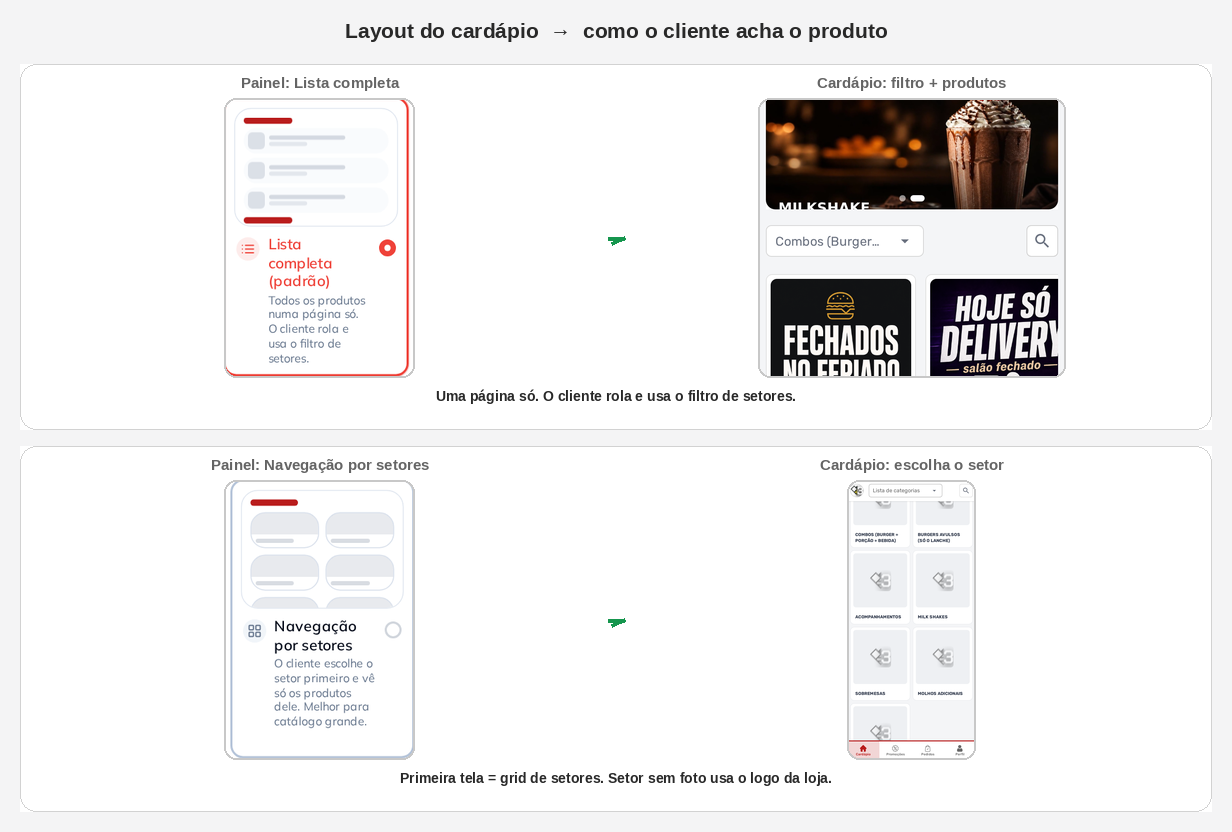
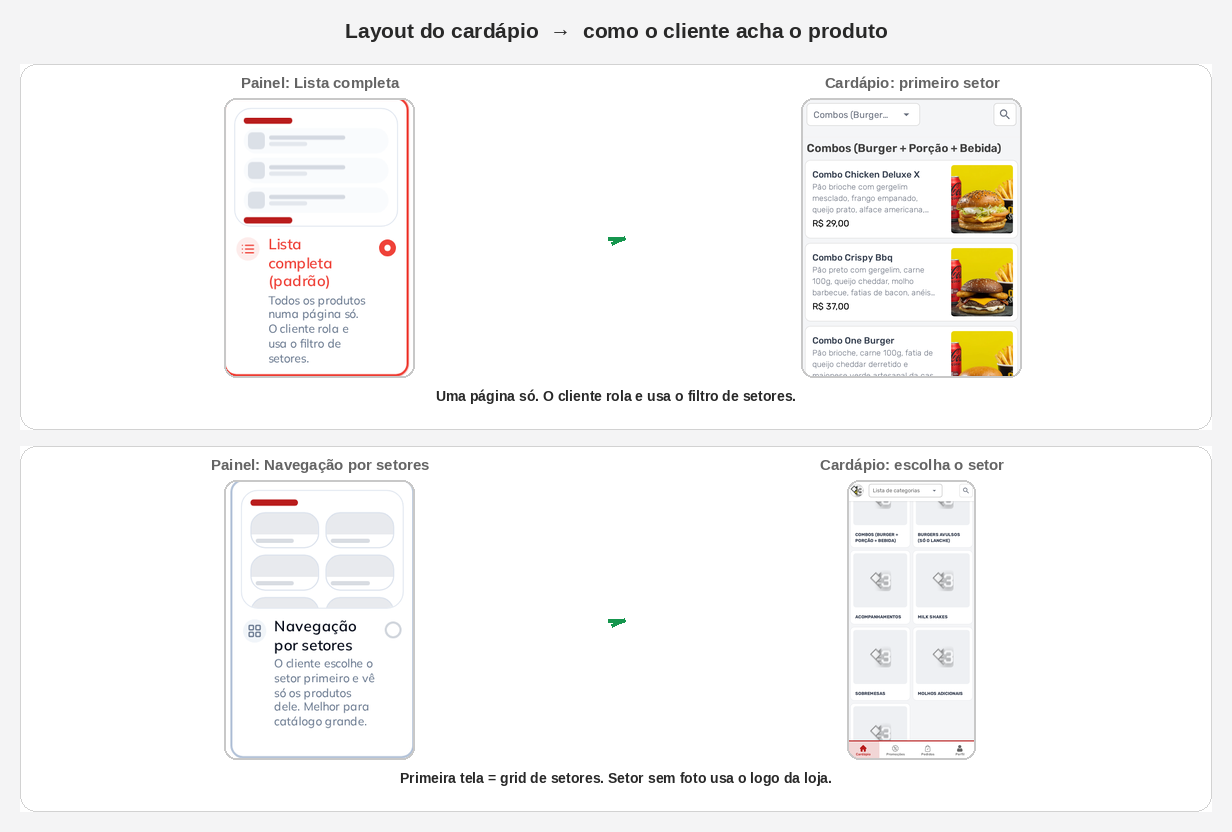
docs(#71): mostra o primeiro setor na lista completa
O par lista × setores deixava os avisos (feriado / só delivery) no
lugar dos produtos. O recorte agora é o filtro Combos e a lista do
primeiro setor no cardápio público.

Changed region(s): [[0.6169, 0.0938, 0.8636, 0.4688]]

diff --git a/manuais/cardapio-digital-aparencia-layout/annotate.py b/manuais/cardapio-digital-aparencia-layout/annotate.py
@@ -258,9 +258,12 @@ montar_dois_pares(
     "Layout do cardápio  →  como o cliente acha o produto",
     (
         crop_frac("04b-layout-setor.png", (0.00, 0.00, 0.50, 1.00)),
-        crop_frac("10-cel-home-lista.png", (0.00, 0.48, 1.00, 0.42)),
+        empilha([
+            crop_frac("10-cel-home-lista.png", (0.00, 0.66, 1.00, 0.08)),
+            crop_frac("10b-cel-home-lista-produtos.png", (0.00, 0.40, 1.00, 0.50)),
+        ], gap=6),
         "Painel: Lista completa",
-        "Cardápio: filtro + produtos",
+        "Cardápio: primeiro setor",
         "Uma página só. O cliente rola e usa o filtro de setores.",
     ),
     (

diff --git a/manuais/cardapio-digital-aparencia-layout/MEMORIA.md b/manuais/cardapio-digital-aparencia-layout/MEMORIA.md
@@ -30,7 +30,8 @@ cardápio ao lado.
 | `04b-layout-setor.png` | pura | Fonte do 04 |
 | `04c-layout-opcoes.png` | pura | Fonte do 05 |
 | `05b-vitrine-aberta.png` | pura | Fonte do 06 |
-| `10-cel-home-lista.png` | pura | Home pública em lista (filtro + avisos) |
+| `10-cel-home-lista.png` | pura | Home pública em lista (topo / filtro) |
+| `10b-cel-home-lista-produtos.png` | pura | Lista: primeiro setor (Combos + produtos) |
 | `11-cel-produto-rolagem.png` | pura | Combo One Burger em rolagem |
 | `12-cel-promocoes.png` | pura | Aba Promoções |
 | `13-cel-home-setores.png` | pura | Home pública: grid de setores |

diff --git a/manuais/cardapio-digital-aparencia-layout/cardapio-digital-aparencia-layout.md b/manuais/cardapio-digital-aparencia-layout/cardapio-digital-aparencia-layout.md
@@ -96,8 +96,8 @@ a capa não tem foto.
 ![Lista completa × navegação por setores](imagens-tratadas/04-par-lista-setores.png)
 
 **Lista completa (padrão)** — todos os produtos numa página. O
-cliente rola e usa o filtro de setores (no exemplo: *Lista de
-categorias*).
+cliente rola e usa o filtro de setores. No exemplo o filtro está
+em *Combos* e já aparecem os produtos daquele setor.
 
 **Navegação por setores** — o cliente escolhe o setor primeiro e
 só então vê os produtos. Melhor para catálogo grande. Setor **sem
